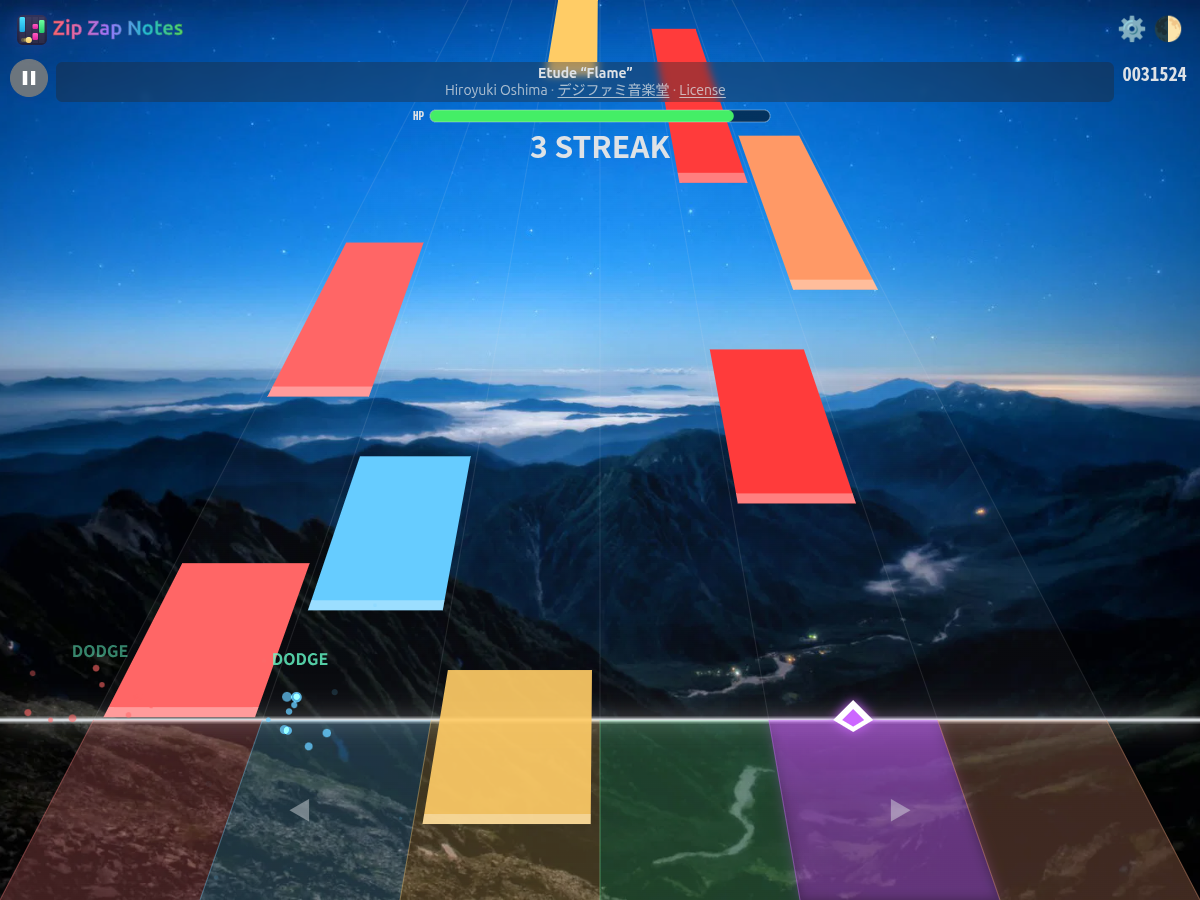
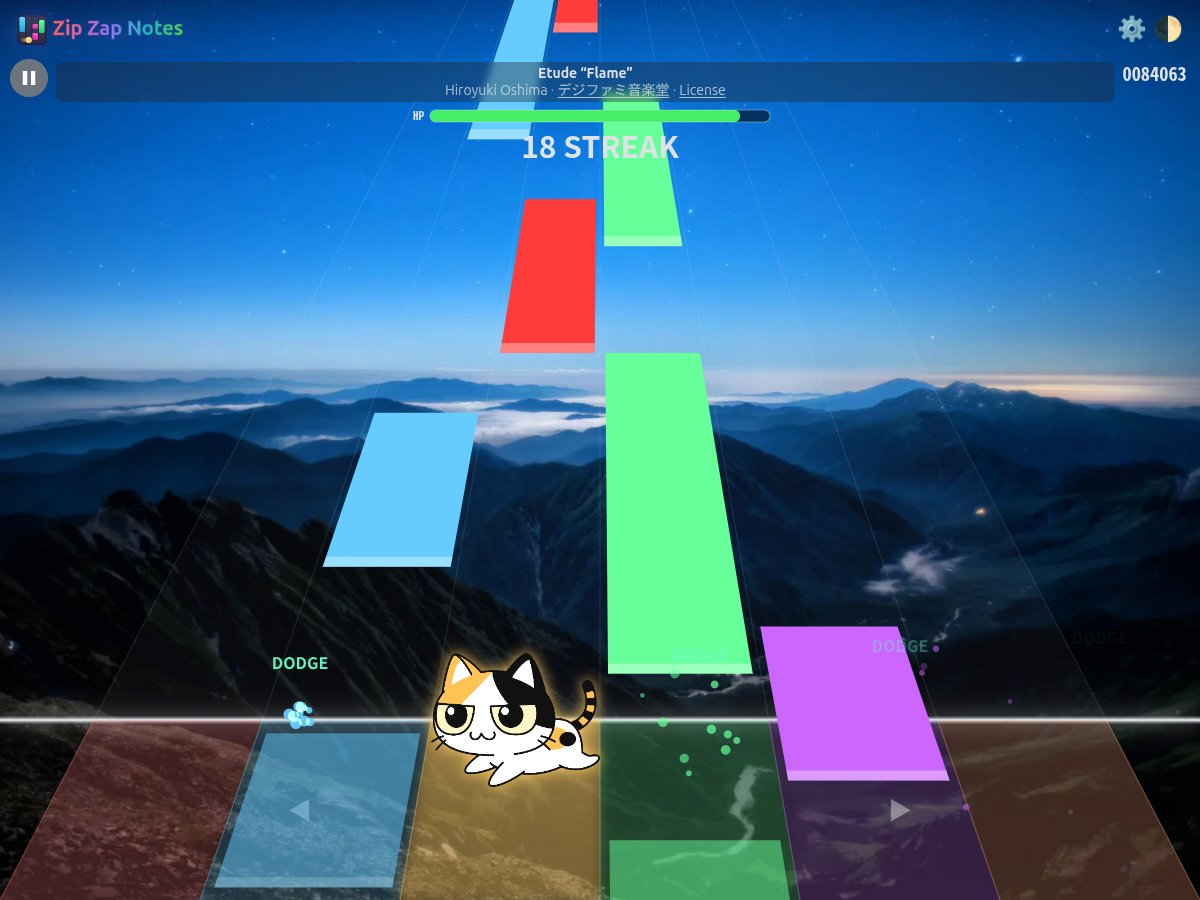
update screenshots

diff --git a/README.md b/README.md
@@ -25,11 +25,11 @@ Settings Screen ![Settings Screen](screenshots/mugen/05.png)
 
 Score Screen ![Score Screen](screenshots/mugen/06.png)
 
-Customization - Background
-![Customization - Background](screenshots/mugen/07.png)
+Customization - Note Type
+![Customization - Note Type](screenshots/mugen/07.png)
 
-Customization - Notes/Lanes
-![Customization - Notes/Lanes](screenshots/mugen/08.png)
+Customization - Character
+![Customization - Character](screenshots/mugen/08.png)
 
 Customization - SoundFont ![Customization - Keys](screenshots/mugen/09.png)
 
